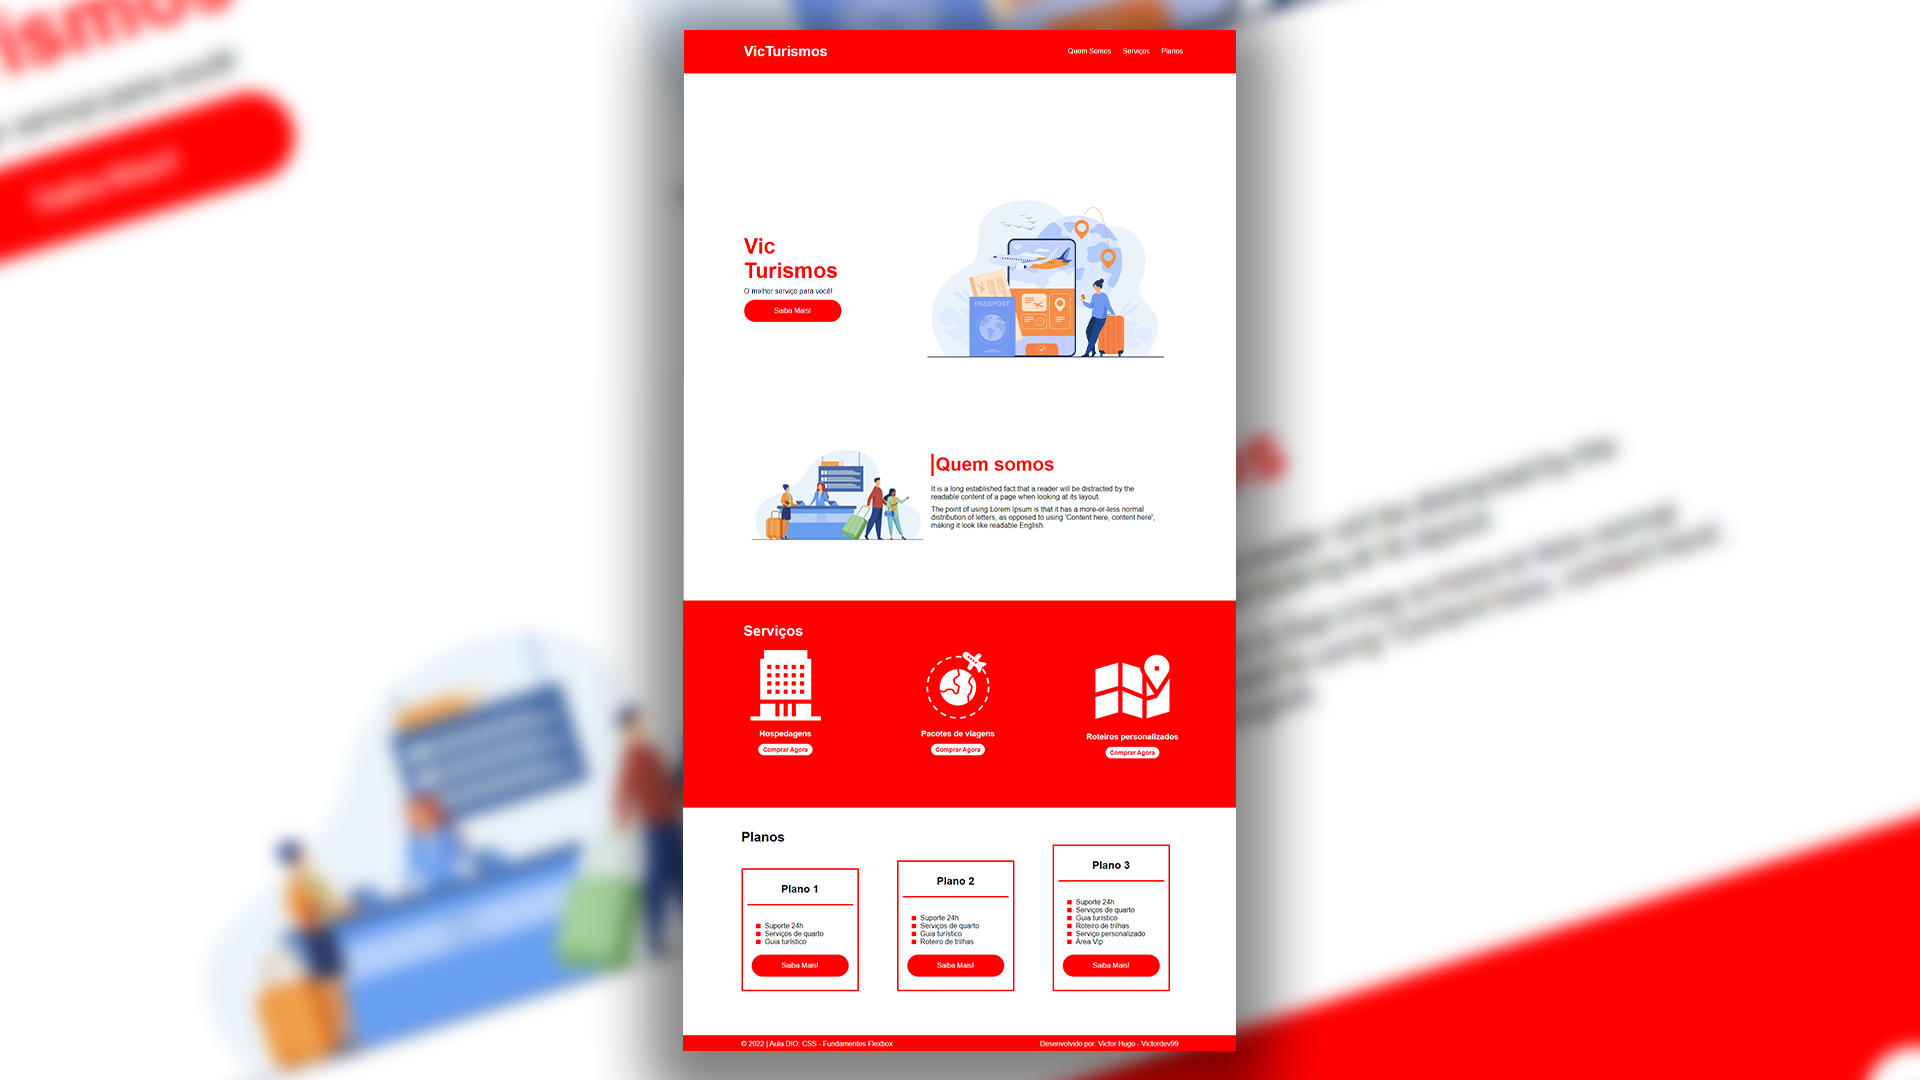
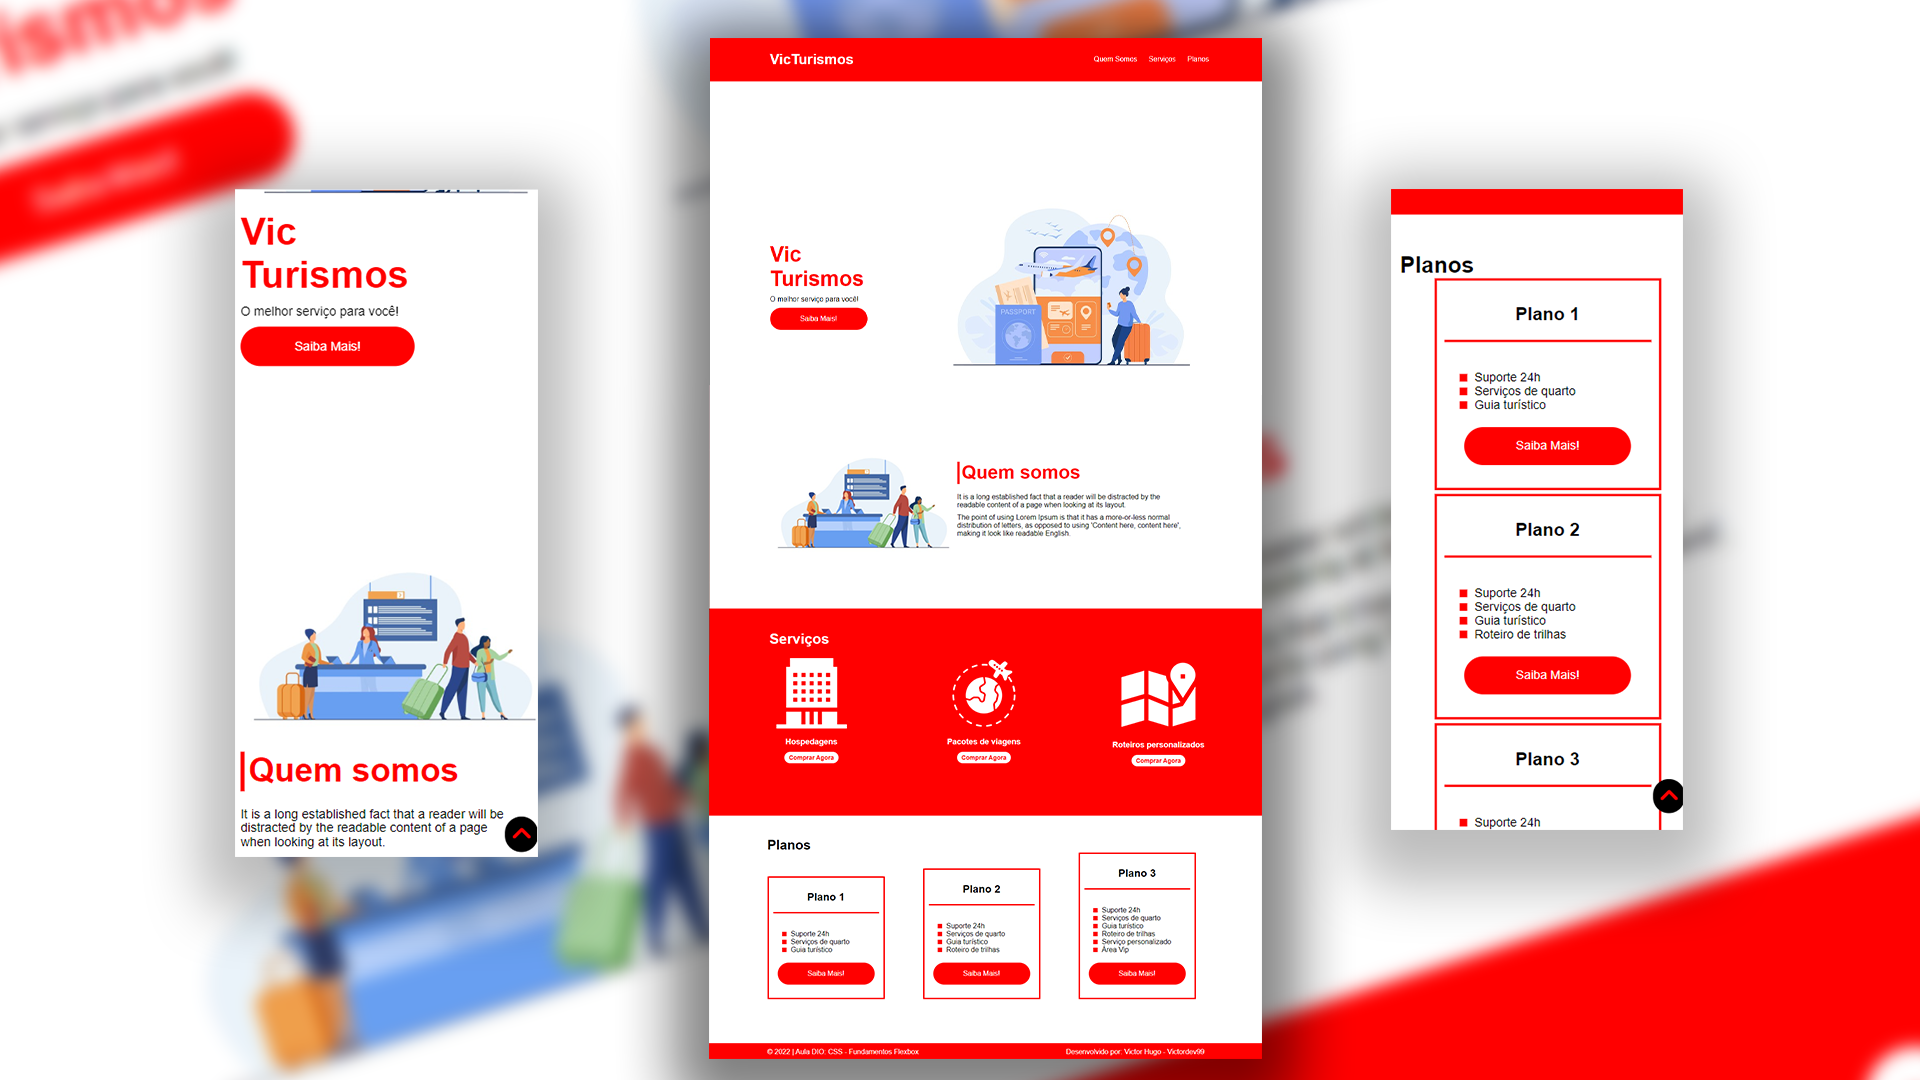
Initial Commit

Changed region(s): [[0.0938, 0.0, 0.9062, 1.0]]

diff --git a/style.css b/style.css
@@ -24,9 +24,8 @@ div img {
     max-width: 992px;
     margin: auto;
     width: 100%;
-    min-width: 100vh;
-    position: relative;
-    /*padding: 10px 15px;*/
+    min-width: 320px;
+    padding: 10px 15px;
 }
 
 header {
@@ -314,10 +313,52 @@ footer .footer a:hover {
 }
 
 /*Responsividade*/
-@media(max-width:991px) {
+@media(max-width:992px) {
+
     .flex-container {
-        padding: 0 50px;
+        flex-direction: column;
     }
 
+    .apresentacao {
+        flex-direction: column-reverse;
+    }
+
+    .apresentacao .texto-apresentacao {
+        width: 100%;
+    }
    
+    #quem-somos {
+        flex-direction: column-reverse;
+    }
+
+    #quem-somos img{
+        min-width: 320px;
+        margin: auto;
+    }
+
+    .list-servicos {
+        flex-direction: column;
+    }
+
+    .item-servico img{
+        width: 50%;
+        margin: auto;
+    }
+
+    .list-planos {
+        flex-direction: column;
+        align-items: flex-start;
+    }
+
+    .list-planos .item-planos {
+        max-width: 70%;
+        margin: auto;
+        width: 100%;
+        margin-bottom: 5px;
+    }
+
+    footer {
+        font-size: 9px;
+    }
+
 }

diff --git a/README.md b/README.md
@@ -1,11 +1,11 @@
 # 💻 | Projeto: Flex Box - Desafio DIO.
 
-### Projeto integrador feito como desafio das aulas: Posicionando elementos com Flexbox em CSS
+### Projeto integrador feito para por em prática as aulas: Posicionando elementos com Flexbox em CSS.
 
 Seja bem vindo ao meu projeto chamado VIC TURISMO, feito totalmente para meus estudos e aperfeiçoamento como profissional. ❤
 
 - Tomei a liberdade de adicionar incrementos ao projeto utilizando JavaScript. 
-    </br> Ex: Criação do Botão <b>Scrool To Top</b>.
+    </br> Ex: Criação do Botão <b>Scrool To Top</b>:
 
 ```js
 $(document).ready(function(){
@@ -22,9 +22,6 @@ $('.scrollup').click(function(){
     $('html').animate({scrollTop: 0});
 });
 ```
-
-
-- Melhorias para visualização em dispositivos móveis.
 
 - Utilizando: HTML, CSS E JS.
 
